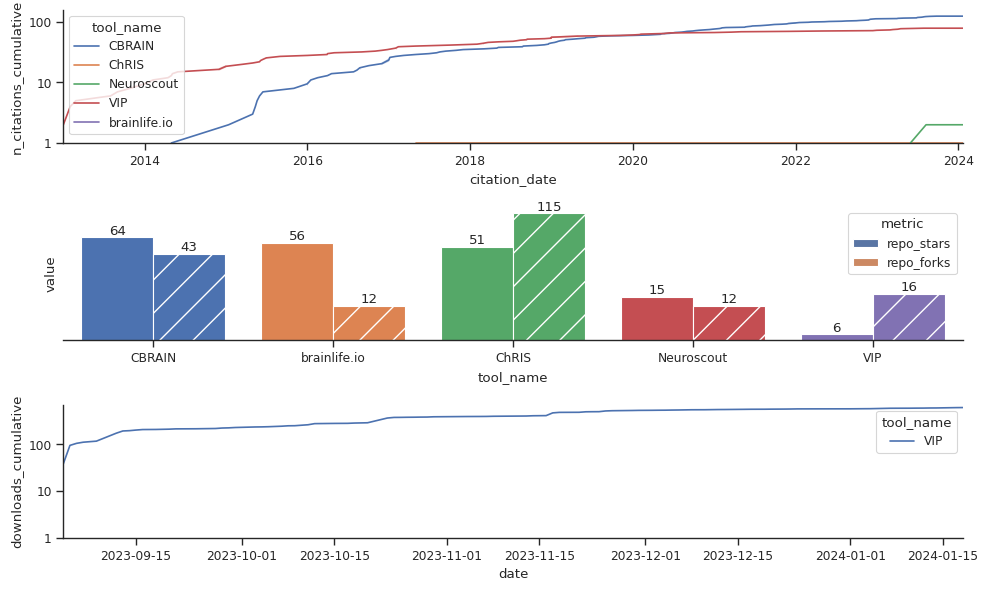
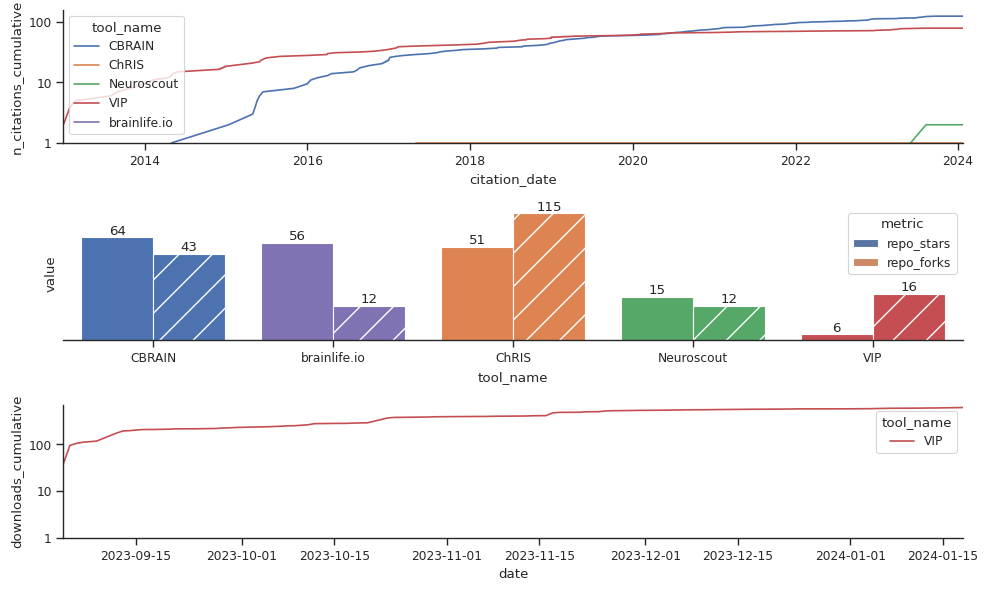
make color palette consistent across panels

diff --git a/code/generate_figures.py b/code/generate_figures.py
@@ -11,9 +11,9 @@ import seaborn as sns
 
 from utils import (
     COL_CITATIONS,
+    COL_COLOR,
     COL_CONTAINER_PULLS,
     COL_CONDA_DOWNLOADS_TIMESERIES,
-    COL_CONDA_DOWNLOADS_TOTAL,
     COL_REPO_FORKS,
     COL_REPO_STARS,
     COL_NAME,
@@ -42,7 +42,7 @@ CITATION_CORRECTIONS = {
     },
 }
 
-def plot_citations(df_metrics: pd.DataFrame, ax=None, date_corrections=None) -> plt.Axes:
+def plot_citations(df_metrics: pd.DataFrame, ax=None, date_corrections=None, palette=None) -> plt.Axes:
 
     if date_corrections is None:
         date_corrections = {}
@@ -94,11 +94,12 @@ def plot_citations(df_metrics: pd.DataFrame, ax=None, date_corrections=None) -> 
         y=col_n_citations_cumulative,
         hue=COL_NAME,
         ax=ax,
+        palette=palette,
     )
 
     return ax
 
-def plot_repo(df_metrics: pd.DataFrame, ax=None, hatches=None) -> plt.Axes:
+def plot_repo(df_metrics: pd.DataFrame, ax=None, hatches=None, palette=None) -> plt.Axes:
     if hatches is None:
         hatches = [None, '/']
     if len(hatches) != 2:
@@ -132,21 +133,23 @@ def plot_repo(df_metrics: pd.DataFrame, ax=None, hatches=None) -> plt.Axes:
     # set bar colour and hatch style
     for i_tool, tool in enumerate(ax.get_xticklabels()):
         for i_patch, patch in enumerate(ax.patches[i_tool:2*n_tools:n_tools]):
-            patch.set_facecolor(sns.color_palette()[i_tool])
+            patch.set_facecolor(palette[tool.get_text()])
             patch.set_hatch(hatches[i_patch])
 
     return ax
 
-def plot_containers_pulls(df_metrics: pd.DataFrame, ax=None) -> plt.Axes:
+def plot_containers_pulls(df_metrics: pd.DataFrame, ax=None, palette=None) -> plt.Axes:
     ax = plot_bar(
         data=df_metrics.sort_values(generate_col_standardized(COL_CONTAINER_PULLS), ascending=False),
         x=COL_NAME,
         y=generate_col_standardized(COL_CONTAINER_PULLS),
         ax=ax,
+        hue=COL_NAME,
+        palette=palette,
     )
     return ax
 
-def plot_python_timeseries(df_metrics: pd.DataFrame, ax=None) -> plt.Axes:
+def plot_python_timeseries(df_metrics: pd.DataFrame, ax=None, palette=None) -> plt.Axes:
 
     df_python_metrics = df_metrics.loc[
         :,
@@ -212,18 +215,52 @@ def plot_python_timeseries(df_metrics: pd.DataFrame, ax=None) -> plt.Axes:
         y=col_downloads_cumulative,
         hue=COL_NAME,
         ax=ax,
+        palette=palette,
     )
 
     return ax
 
-def plot_python_total(df_metrics: pd.DataFrame, ax=None) -> plt.Axes:
+def plot_python_total(df_metrics: pd.DataFrame, ax=None, palette=None) -> plt.Axes:
     ax = plot_bar(
         data=df_metrics.sort_values(generate_col_standardized(COL_PYTHON_DOWNLOADS_TOTAL), ascending=False),
         y=generate_col_standardized(COL_PYTHON_DOWNLOADS_TOTAL),
         x=COL_NAME,
         ax=ax,
+        hue=COL_NAME,
+        palette=palette,
     )
     return ax
+
+def process_palette(df_metrics: pd.DataFrame, palette=None) -> Mapping[str, str]:
+    if palette is None:
+        palette = {}
+        for _, df_colors in df_metrics.groupby(COL_SECTION):
+            tools = df_colors[COL_NAME].sort_values()
+            colors = sns.color_palette(n_colors=len(df_colors))
+            palette.update({
+                tool: color
+                for tool, color in zip(tools, colors)
+            })
+    elif COL_COLOR in df_metrics.columns:
+        palette = {
+            tool: color
+            for tool, color
+            in df_metrics[[COL_NAME, COL_COLOR]].itertuples(index=False)
+        }
+    else:
+        # validate custom palette
+        if not isinstance(palette, Mapping):
+            raise TypeError(
+                'palette must be a Mapping (tool_name -> color)'
+                f', got {type(palette)}'
+            )
+        for tool in df_metrics[COL_NAME]:
+            if tool not in palette:
+                raise ValueError(
+                    f'custom palette is missing color for tool {tool}'
+                )
+            
+    return palette
 
 def generate_figures(
         fpath_tools: Path,
@@ -235,6 +272,7 @@ def generate_figures(
         fpath_metrics_out: Path = None,
         overwrite: bool = False,
         citation_corrections: Mapping[str, Mapping[str, str]] = None,
+        palette = None,
     ):
 
     label_citations = 'citations'
@@ -265,6 +303,9 @@ def generate_figures(
 
     # create figs directory if needed
     dpath_figs.mkdir(exist_ok=True)
+
+    # process palette
+    palette = process_palette(df_metrics, palette=palette)
 
     for section, df_metrics_section in df_metrics.groupby(COL_SECTION):
 
@@ -335,31 +376,35 @@ def generate_figures(
                 df_citations,
                 ax=ax_citations,
                 date_corrections=citation_corrections,
+                palette=palette,
             )
 
         if ax_repo is not None:
             plot_repo(
                 df_repo,
                 ax=ax_repo,
+                palette=palette,
             )
 
-        
         if ax_containers is not None:
             plot_containers_pulls(
                 df_container_pulls,
                 ax=ax_containers,
+                palette=palette,
             )
 
         if ax_python_timeseries is not None:
             plot_python_timeseries(
                 df_metrics_section.loc[df_metrics_section[COL_PYPI_DOWNLOADS_TIMESERIES].notna()],
                 ax=ax_python_timeseries,
+                palette=palette,
             )
 
         if ax_python_total is not None:
             plot_python_total(
                 df_python_downloads,
                 ax=ax_python_total,
+                palette=palette,
             )
 
         fig.tight_layout()

diff --git a/code/utils.py b/code/utils.py
@@ -8,6 +8,7 @@ COL_DOCKER2 = 'docker2'
 COL_GITHUB_CONTAINER = 'github_container'
 COL_PYPI = 'pypi'
 COL_CONDA = 'conda'
+COL_COLOR = 'color'
 
 COL_CITATIONS = 'citations'
 COL_GITHUB_STARS = 'github_stars'
